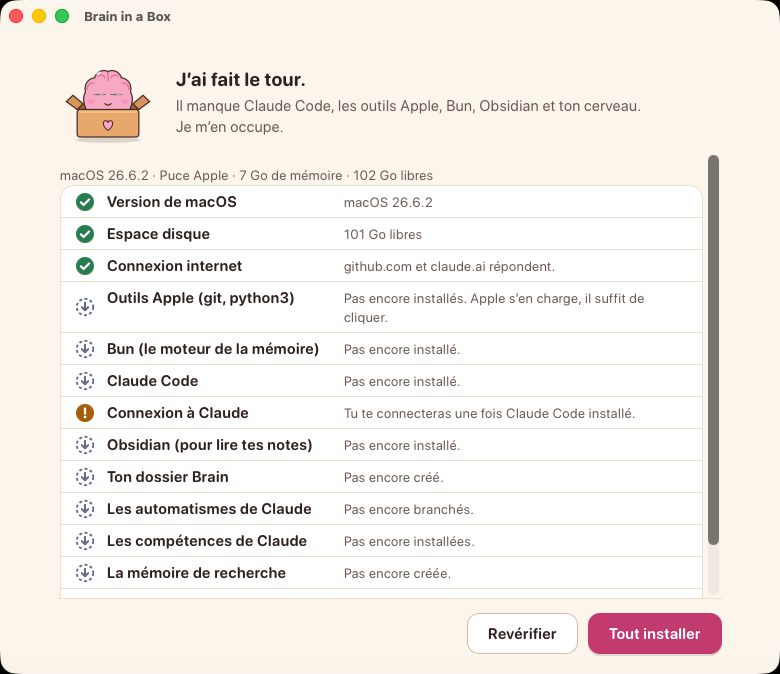
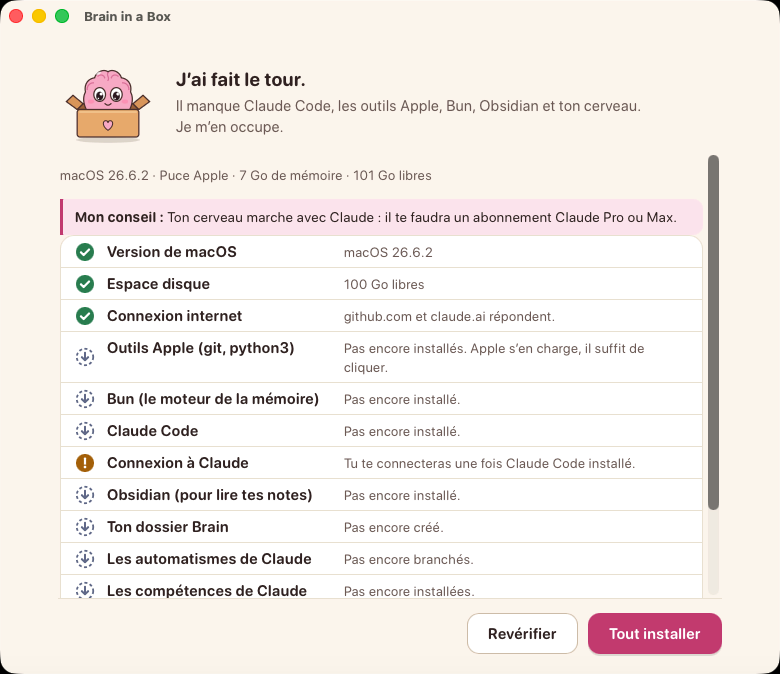
Download site: import the memory of ChatGPT or Claude, Bibo's advice, a FAQ entry
A short section, « Importe ta mémoire ChatGPT ou Claude » (#memoire, after « Et maintenant ? »):
the copy-paste and the export, where to click in ChatGPT and in Claude (with the English labels),
what leaves and where (read on the computer, secrets masked, shown before « Lancer », to Claude
only), the note it writes, and the skill for a brain installed from the command line. The two
sections after it swap their background so the page still alternates.

Bibo's screens: « Mon conseil » on screen 2, « Importer ma mémoire » on screen 7, a screen 8
« D'où vient ta mémoire ? ». Their captures come from the field test of this branch (run
39508485516, macOS): bibo-2-diagnostic and bibo-8-pret again, bibo-9-memoire new; captures.sh
names them. The FAQ: « J'utilisais ChatGPT : je garde ce qu'il sait de moi ? ». What leaves
(#donnees, the FAQ) and the list of skills name the import. No script, no inline style: the CSP
of vercel.json is unchanged.

Changed region(s): [[0.0615, 0.2493, 0.9231, 0.9036], [0.8923, 0.7478, 0.9231, 0.8101], [0.1231, 0.1246, 0.1538, 0.1558]]

diff --git a/site/index.html b/site/index.html
@@ -332,6 +332,7 @@
           <p class="j-num">Écran 2</p>
           <h3>«&nbsp;J’ai fait le tour.&nbsp;»</h3>
           <p>En quelques secondes, Bibo vérifie ton système, la place libre, internet et ce qui est déjà installé.</p>
+          <p><strong>Mon conseil</strong>&nbsp;: d’après ce qui est déjà sur ton ordinateur (Claude Code, les apps ChatGPT ou Claude, Hermes…), Bibo te dit en une phrase avec quelle IA ton cerveau travaillera et ce qu’il te faut, sans ouvrir tes fichiers de connexion. S’il voit Hermes, il ne l’installe pas et n’y touche pas.</p>
           <ul class="legend">
             <li><svg class="ic ic-ok" viewBox="0 0 20 20" aria-hidden="true" focusable="false"><circle class="ic-bg" cx="10" cy="10" r="9"/><path class="ic-fg" d="M6 10.4l2.7 2.6L14 7.6"/></svg>Coche verte&nbsp;: c’est bon.</li>
             <li><svg class="ic ic-missing" viewBox="0 0 20 20" aria-hidden="true" focusable="false"><circle class="ic-ring" cx="10" cy="10" r="8.2"/><path class="ic-line" d="M10 5.8v7M6.9 10.2L10 13.2l3.1-3"/></svg>Flèche dans un cercle pointillé&nbsp;: Bibo va l’installer.</li>
@@ -341,7 +342,7 @@
           <p>Clique sur <strong>Tout installer</strong>.</p>
         </div>
         <figure class="shot">
-          <a class="zoom" href="img/bibo-2-diagnostic.webp"><img src="img/bibo-2-diagnostic.webp" width="780" height="674" loading="lazy" decoding="async" alt="Le diagnostic : une liste de vérifications (version de macOS, espace disque, internet en vert ; outils Apple, Bun, Claude Code, Obsidian et le dossier Brain à installer) et le bouton Tout installer."></a>
+          <a class="zoom" href="img/bibo-2-diagnostic.webp"><img src="img/bibo-2-diagnostic.webp" width="780" height="674" loading="lazy" decoding="async" alt="Le diagnostic : la ligne Mon conseil (ton cerveau marche avec Claude, il te faudra un abonnement Claude Pro ou Max), puis une liste de vérifications (version de macOS, espace disque, internet en vert ; outils Apple, Bun, Claude Code, Obsidian et le dossier Brain à installer) et le bouton Tout installer."></a>
         </figure>
       </li>
       <li>
@@ -417,11 +418,22 @@
         <div class="j-text">
           <p class="j-num">Écran 7</p>
           <h3>«&nbsp;Ton second cerveau est prêt&nbsp;!&nbsp;»</h3>
-          <p>Deux boutons&nbsp;: <strong>Personnaliser mon cerveau (15 min)</strong>, pour te présenter à Claude, et <strong>Ouvrir mon cerveau dans Obsidian</strong>. Sans clé Voyage, tu peux encore activer la recherche par le sens ici.</p>
+          <p>Deux boutons&nbsp;: <strong>Personnaliser mon cerveau (15 min)</strong>, pour te présenter à Claude, et <strong>Ouvrir mon cerveau dans Obsidian</strong>. Sans clé Voyage, tu peux encore activer la recherche par le sens ici. Et <strong>Importer ma mémoire</strong>, si tu utilisais ChatGPT ou Claude.</p>
           <p><a href="#apres">Et après&nbsp;?</a></p>
         </div>
         <figure class="shot">
-          <a class="zoom" href="img/bibo-8-pret.webp"><img src="img/bibo-8-pret.webp" width="780" height="674" loading="lazy" decoding="async" alt="L'écran final : Bibo content dit « Ton second cerveau est prêt ! », avec les boutons Activer la recherche par le sens, Ouvrir mon cerveau dans Obsidian et Personnaliser mon cerveau (15 min)."></a>
+          <a class="zoom" href="img/bibo-8-pret.webp"><img src="img/bibo-8-pret.webp" width="780" height="674" loading="lazy" decoding="async" alt="L'écran final : Bibo content dit « Ton second cerveau est prêt ! », avec les boutons Activer la recherche par le sens, Importer ma mémoire, Ouvrir mon cerveau dans Obsidian et Personnaliser mon cerveau (15 min)."></a>
+        </figure>
+      </li>
+      <li>
+        <div class="j-text">
+          <p class="j-num">Écran 8 · si tu veux</p>
+          <h3>«&nbsp;D’où vient ta mémoire&nbsp;?&nbsp;»</h3>
+          <p>Avec «&nbsp;Importer ma mémoire&nbsp;», à la fin ou quand tu rouvres l’app&nbsp;: ton fichier d’export, ou un copier-coller de deux minutes. Bibo te dit ce qu’il a lu et ce qui partirait, avant d’envoyer quoi que ce soit.</p>
+          <p><a href="#memoire">Les deux façons, pas à pas</a></p>
+        </div>
+        <figure class="shot">
+          <a class="zoom" href="img/bibo-9-memoire.webp"><img src="img/bibo-9-memoire.webp" width="780" height="674" loading="lazy" decoding="async" alt="L'écran D'où vient ta mémoire ? : deux façons, ton fichier d'export (.zip) ou un copier-coller (2 min), l'aide Comment obtenir mon export ?, ce qui part et où, et les boutons Retour, Je copie-colle une réponse et Choisir mon fichier d'export."></a>
         </figure>
       </li>
     </ol>
@@ -485,7 +497,7 @@
         <svg class="icon" viewBox="0 0 24 24" aria-hidden="true" focusable="false"><path d="M13 2.5L5 13.5h6l-1 8 8-11h-6z"/></svg>
         <h3>Les automatismes et compétences de Claude</h3>
         <p class="label">Ce qu’il fait pour toi</p>
-        <p>Des automatismes&nbsp;: quand tu corriges Claude, il note la leçon&nbsp;; tes séances sont résumées dans ton Journal. Des compétences&nbsp;: le contrôle de nuit (<code>/controle</code>), une recherche rapide sur le web, une page HTML pour expliquer ou présenter quelque chose, la conversion de documents (Word, PDF…) en notes et «&nbsp;brain-boost&nbsp;», qui t’explique ce que ton installation sait faire.</p>
+        <p>Des automatismes&nbsp;: quand tu corriges Claude, il note la leçon&nbsp;; tes séances sont résumées dans ton Journal. Des compétences&nbsp;: le contrôle de nuit (<code>/controle</code>), une recherche rapide sur le web, une page HTML pour expliquer ou présenter quelque chose, la conversion de documents (Word, PDF…) en notes, <a href="#memoire">l’import de ta mémoire ChatGPT ou Claude</a> et «&nbsp;brain-boost&nbsp;», qui t’explique ce que ton installation sait faire.</p>
         <p class="label">Ce que tu as à faire</p>
         <ul class="plain">
           <li>Rien. Pour découvrir, demande à Claude&nbsp;: «&nbsp;qu’est-ce que tu peux faire pour moi&nbsp;?&nbsp;»</li>
@@ -553,13 +565,53 @@
       </div>
       <div class="cell" id="donnees">
         <h3>Tes données restent chez toi</h3>
-        <p>Tes notes, ta mémoire et son index sont sur ton ordinateur&nbsp;: pas de serveur, pas de cloud partagé. Ce qui sort&nbsp;: ce que tu dis à Claude (chez Anthropic, avec ton abonnement), des extraits pour le résumé du jour et le contrôle de nuit (mots de passe et clés masqués avant l’envoi) et, avec une clé Voyage, le texte envoyé à Voyage AI.</p>
+        <p>Tes notes, ta mémoire et son index sont sur ton ordinateur&nbsp;: pas de serveur, pas de cloud partagé. Ce qui sort&nbsp;: ce que tu dis à Claude (chez Anthropic, avec ton abonnement), des extraits pour le résumé du jour et le contrôle de nuit (mots de passe et clés masqués avant l’envoi), ce que tu choisis d’<a href="#memoire">importer</a>, masqué de la même façon et trié par Claude, et, avec une clé Voyage, le texte envoyé à Voyage AI.</p>
       </div>
     </div>
   </div>
 </section>
 
-<section class="section" id="aide" aria-labelledby="aide-t">
+<section class="section" id="memoire" aria-labelledby="memoire-t">
+  <div class="wrap">
+    <p class="tag tag-orange-pink">Ta mémoire</p>
+    <h2 id="memoire-t">Importe ta mémoire <span class="nowrap">ChatGPT ou Claude.</span></h2>
+    <p class="section-lead">ChatGPT ou Claude te connaissent déjà. Bibo apporte à ton cerveau ce qu’ils savent de toi&nbsp;: qui tu es, tes préférences, tes projets, les personnes, tes outils, tes décisions, chacun avec sa source. Le bouton «&nbsp;Importer ma mémoire&nbsp;» est à la fin de l’installation, et reste là quand tu rouvres l’app.</p>
+
+    <div class="grid-frame ways">
+      <div class="cell">
+        <svg class="icon" viewBox="0 0 24 24" aria-hidden="true" focusable="false"><rect x="8" y="8" width="12" height="12" rx="2"/><path d="M16 8V5.5A1.5 1.5 0 0014.5 4h-9A1.5 1.5 0 004 5.5v9A1.5 1.5 0 005.5 16H8"/></svg>
+        <h3>Par copier-coller <span class="opt">2 min</span></h3>
+        <ol class="mini-steps">
+          <li>Bibo te donne une phrase à copier («&nbsp;Liste chaque souvenir que tu as enregistré sur moi…&nbsp;»).</li>
+          <li>Colle-la dans une nouvelle conversation, sur ChatGPT ou sur Claude.</li>
+          <li>Copie sa réponse avec le bouton Copier de son bloc de code, et colle-la dans Bibo. S’il dit qu’il en reste, écris-lui «&nbsp;Continue&nbsp;» et colle la suite à la fin.</li>
+        </ol>
+        <p class="note">Le mieux pour les souvenirs enregistrés de ChatGPT&nbsp;: son export ne les contient souvent plus.</p>
+      </div>
+      <div class="cell">
+        <svg class="icon" viewBox="0 0 24 24" aria-hidden="true" focusable="false"><path d="M6 3.5h8l4 4v13H6z"/><path d="M14 3.5v4h4M12 10.5v6m0 0l-2.5-2.5M12 16.5l2.5-2.5"/></svg>
+        <h3>Avec ton fichier d’export <span class="opt">le plus complet</span></h3>
+        <ul class="plain">
+          <li><strong>ChatGPT</strong>&nbsp;: Paramètres › Contrôles de données › Exporter les données. Un e‑mail t’envoie un lien, valable 24&nbsp;h&nbsp;: télécharge le fichier .zip.</li>
+          <li><strong>Claude</strong>&nbsp;: Paramètres › Confidentialité › Exporter les données, sur claude.ai ou l’app de bureau (pas sur le téléphone). Un e‑mail t’envoie un lien, valable 24&nbsp;h&nbsp;: télécharge le ou les fichiers .zip.</li>
+          <li>Dans Bibo, «&nbsp;Choisir mon fichier d’export&nbsp;». Plusieurs .zip&nbsp;? Prends-les tous d’un coup (Cmd‑clic sur Mac, Ctrl‑clic sur PC).</li>
+        </ul>
+        <p class="note">En anglais&nbsp;: Settings › Data controls › Export data, ou Settings › Privacy › Export data. Ton navigateur a ouvert le .zip en dossier (Safari le fait)&nbsp;? Clic droit sur le dossier › Compresser, puis choisis ce .zip.</p>
+      </div>
+    </div>
+
+    <aside class="callout">
+      <h4>Ce qui part, et où</h4>
+      <p>Bibo lit ton export ou la réponse collée sur ton ordinateur, sans rien décompresser, et masque les mots de passe et les clés. D’un export, il garde tes messages, tes souvenirs enregistrés et tes consignes, pas les réponses de l’IA ni les fichiers joints.</p>
+      <p>Avant d’envoyer quoi que ce soit, il te dit ce qu’il a lu et combien de demandes il fera à Claude, environ une minute chacune (pour un export, tu choisis&nbsp;: Rapide, Normal ou Complet, jusqu’à 10). «&nbsp;Voir exactement ce que j’envoie&nbsp;» te montre le texte. Rien ne part avant «&nbsp;Lancer&nbsp;». Le texte va à Claude seulement, chez Anthropic, avec ton abonnement&nbsp;: rien ailleurs. Ça compte dans ta limite d’usage, sans frais en plus.</p>
+      <p>Le résultat&nbsp;: une nouvelle note dans ton cerveau, dossier Imports, à relire (Claude peut se tromper). Aucune note n’est remplacée, et le même export n’est pas importé deux fois.</p>
+    </aside>
+
+    <p class="memoire-cli">Sans l’app, ou si tu as installé en ligne de commande&nbsp;: dis à Claude «&nbsp;importe ma mémoire ChatGPT&nbsp;». Sa compétence <code>importer-memoire</code> fait la même chose, et te demande ton accord avant d’envoyer.</p>
+  </div>
+</section>
+
+<section class="section section-alt" id="aide" aria-labelledby="aide-t">
   <div class="wrap wrap-narrow">
     <p class="tag tag-violet-blue">Aide</p>
     <h2 id="aide-t">Un souci&nbsp;?</h2>
@@ -614,9 +666,15 @@ sha256sum "$(xdg-user-dir DOWNLOAD)"/Brain-in-a-Box_*
         <p>GitHub atteste aussi chaque fichier&nbsp;: avec l’outil <code>gh</code> (GitHub CLI), cette commande dit s’il a bien été construit par le projet, depuis sa branche principale (ici pour le fichier Mac&nbsp;; même chose avec le tien).</p>
         <pre class="cmd"><code>gh attestation verify ~/Downloads/Brain-in-a-Box_*_macos-universal.dmg -R BrainInBox/brain-in-a-box --signer-workflow BrainInBox/brain-in-a-box/.github/workflows/release.yml --source-ref refs/heads/master</code></pre>
       </details>
+      <details id="importer">
+        <summary>J’utilisais ChatGPT&nbsp;: je garde ce qu’il sait de moi&nbsp;?</summary>
+        <p>Oui. «&nbsp;Importer ma mémoire&nbsp;», à la fin de l’installation ou quand tu rouvres l’app, apporte à ton cerveau ce que ChatGPT ou Claude sait de toi, par copier-coller ou avec ton fichier d’export. <a href="#memoire">Les deux façons</a>.</p>
+        <p>Ton cerveau, lui, travaille avec Claude&nbsp;: il te faut un abonnement Claude Pro ou Max, ton abonnement ChatGPT ne suffit pas. Bibo te le dit dès le diagnostic, dans «&nbsp;Mon conseil&nbsp;».</p>
+        <p>Ton cerveau a été installé par une version plus ancienne&nbsp;? Bibo te propose d’abord de le mettre à jour. Pour défaire un import, dis à Claude&nbsp;: «&nbsp;annule l’import de ma mémoire&nbsp;».</p>
+      </details>
       <details>
         <summary>Mes données, ma vie privée</summary>
-        <p>Tout reste sur ton ordinateur, sauf ce que tu dis à Claude, des extraits masqués pour le résumé du jour et le contrôle de nuit, et, si tu as mis une clé Voyage, le texte envoyé à Voyage AI. <a href="#donnees">Le détail</a>.</p>
+        <p>Tout reste sur ton ordinateur, sauf ce que tu dis à Claude, des extraits masqués pour le résumé du jour et le contrôle de nuit, ce que tu importes de ChatGPT ou de Claude (masqué aussi, et seulement après ton accord), et, si tu as mis une clé Voyage, le texte envoyé à Voyage AI. <a href="#donnees">Le détail</a>.</p>
       </details>
       <details>
         <summary>Désinstaller</summary>
@@ -631,7 +689,7 @@ sha256sum "$(xdg-user-dir DOWNLOAD)"/Brain-in-a-Box_*
   </div>
 </section>
 
-<section class="section section-alt section-cli" id="ligne-de-commande" aria-labelledby="cli-t">
+<section class="section section-cli" id="ligne-de-commande" aria-labelledby="cli-t">
   <div class="wrap">
     <div class="cli-head" id="sans-app">
       <p class="tag tag-green-teal">Ligne de commande</p>
@@ -700,6 +758,7 @@ sha256sum "$(xdg-user-dir DOWNLOAD)"/Brain-in-a-Box_*
             <li><a href="#telecharger">Télécharger</a></li>
             <li><a href="#installer">Installer</a></li>
             <li><a href="#bibo">Ce que fait Bibo</a></li>
+            <li><a href="#memoire">Importer ta mémoire</a></li>
             <li><a href="#ligne-de-commande">En ligne de commande</a></li>
           </ul>
         </div>

diff --git a/site/style.css b/site/style.css
@@ -160,6 +160,7 @@ code {
 .tag-blue-violet { --t1: #93c5fd; --t2: #d8b4fe; }
 .tag-violet-blue { --t1: #a5b4fc; --t2: #f0abfc; }
 .tag-green-teal { --t1: #bbf7d0; --t2: #34d399; }
+.tag-orange-pink { --t1: #fdba74; --t2: #f9a8d4; }
 .tag + h2 { margin-top: 20px; }
 
 /* Buttons and links */
@@ -491,6 +492,8 @@ code {
 .softs { grid-template-columns: repeat(3, minmax(0, 1fr)); }
 .after { grid-template-columns: repeat(3, minmax(0, 1fr)); }
 .after h3 { font-size: 20px; }
+.ways { grid-template-columns: repeat(2, minmax(0, 1fr)); }
+.memoire-cli { max-width: 46em; margin-top: 24px; color: var(--ink-3); font-size: 14.5px; }
 
 .plain { margin: 0; padding: 0; list-style: none; }
 .plain > li + li { margin-top: 8px; }
@@ -889,7 +892,7 @@ pre.cmd code { padding: 0; background: none; border: 0; color: inherit; font: in
   .hero-bibo { width: 88px; margin-bottom: 20px; }
   .lead { margin-top: 22px; }
   .section-lead { font-size: 17px; }
-  .needs, .softs, .after { grid-template-columns: minmax(0, 1fr); }
+  .needs, .softs, .after, .ways { grid-template-columns: minmax(0, 1fr); }
   .grid-frame > .cell { padding: 26px 20px 30px; }
   .grid-frame, .trio { margin-top: 40px; }
   .tabs { margin-top: 32px; }
